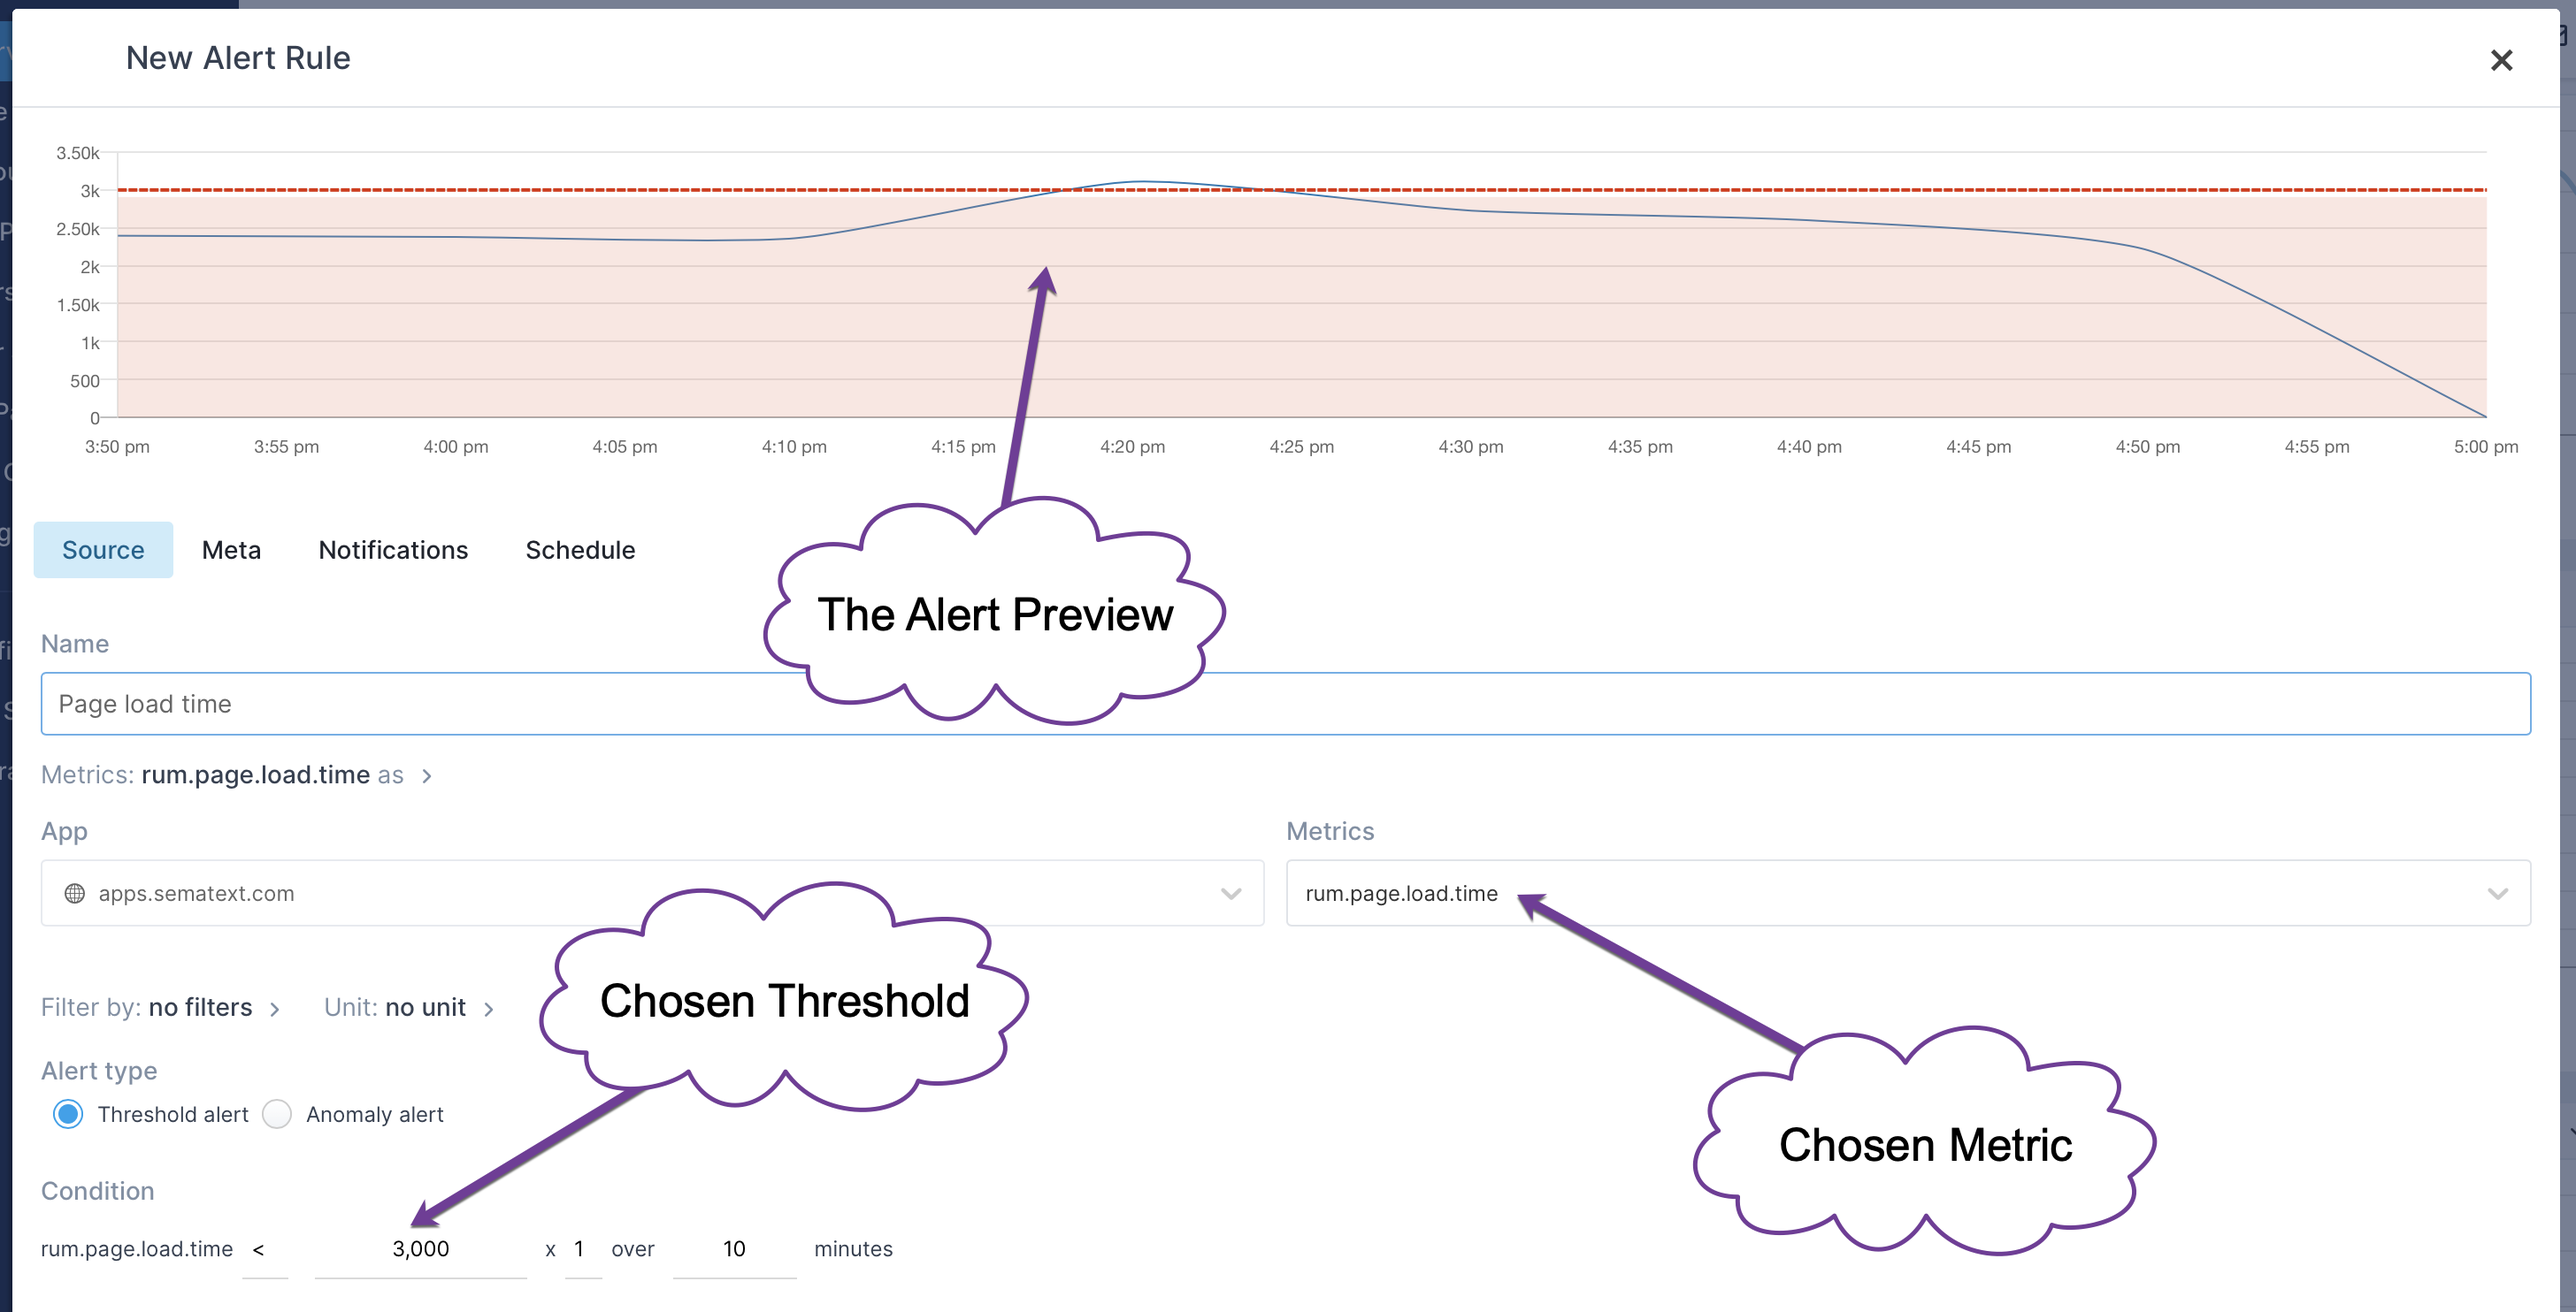
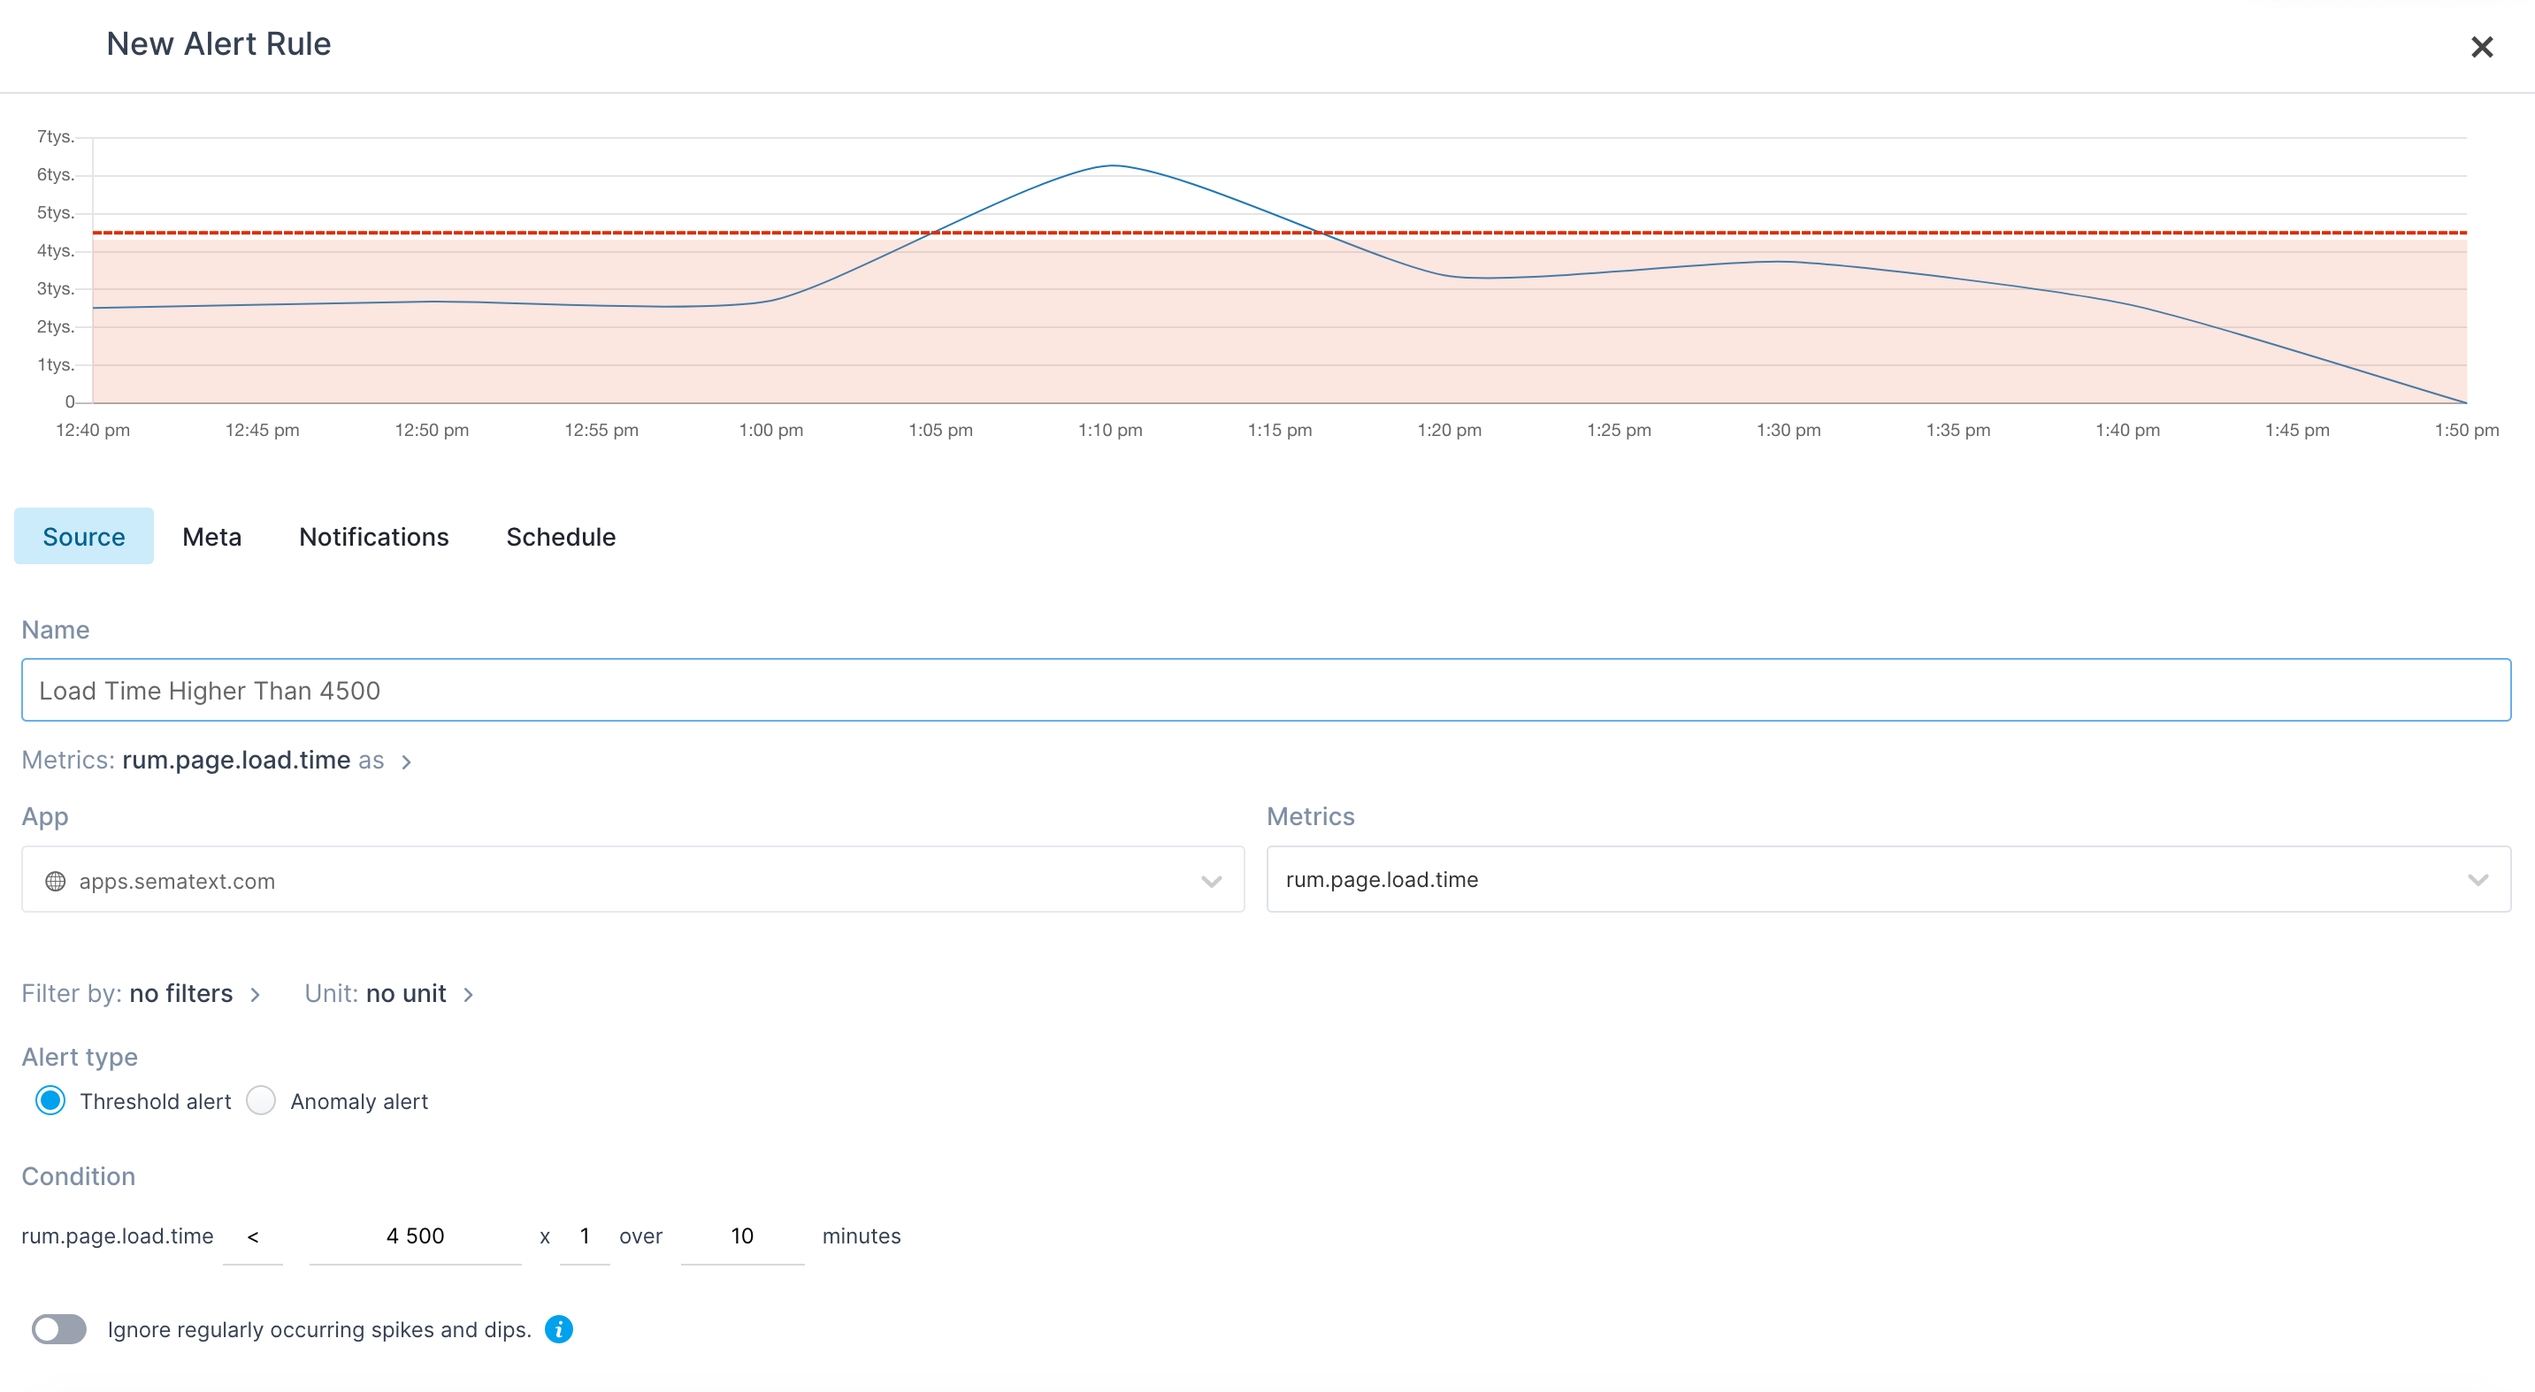
Adjustments to comments

diff --git a/docs/alerts/creating-experience-alerts.md b/docs/alerts/creating-experience-alerts.md
@@ -29,7 +29,7 @@ The above metrics can also be chosen from in the alert rule creation dialog:
 
 ![Experience Alert Metric](../images/alerts/experience_alert_metrics.png)
 
-While creating an alert you'll get a chart preview of the alert threshold or anomaly. For example, to set up a new alert rule for that would be triggered for page load time higher than 3000 milliseconds on average this is how the preview screen would look like:
+While creating an alert you'll get a chart preview of the alert threshold or anomaly. For example, to set up a new alert rule for that would be triggered for page load time higher than 4500 milliseconds on average this is how the preview screen would look like:
 
 ![Page Load Alert Preview](../images/alerts/experience_alert_preview.png)
 
